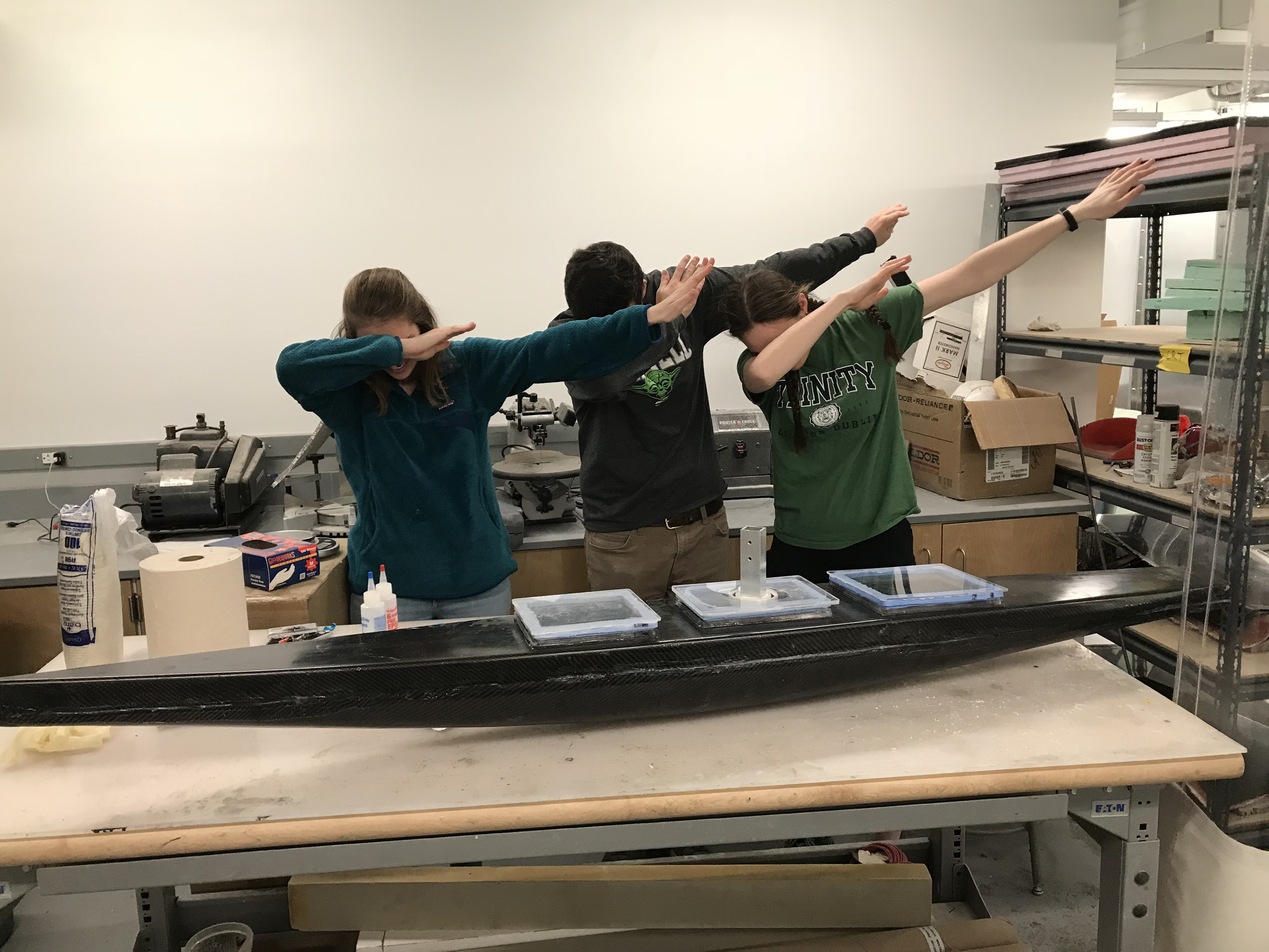
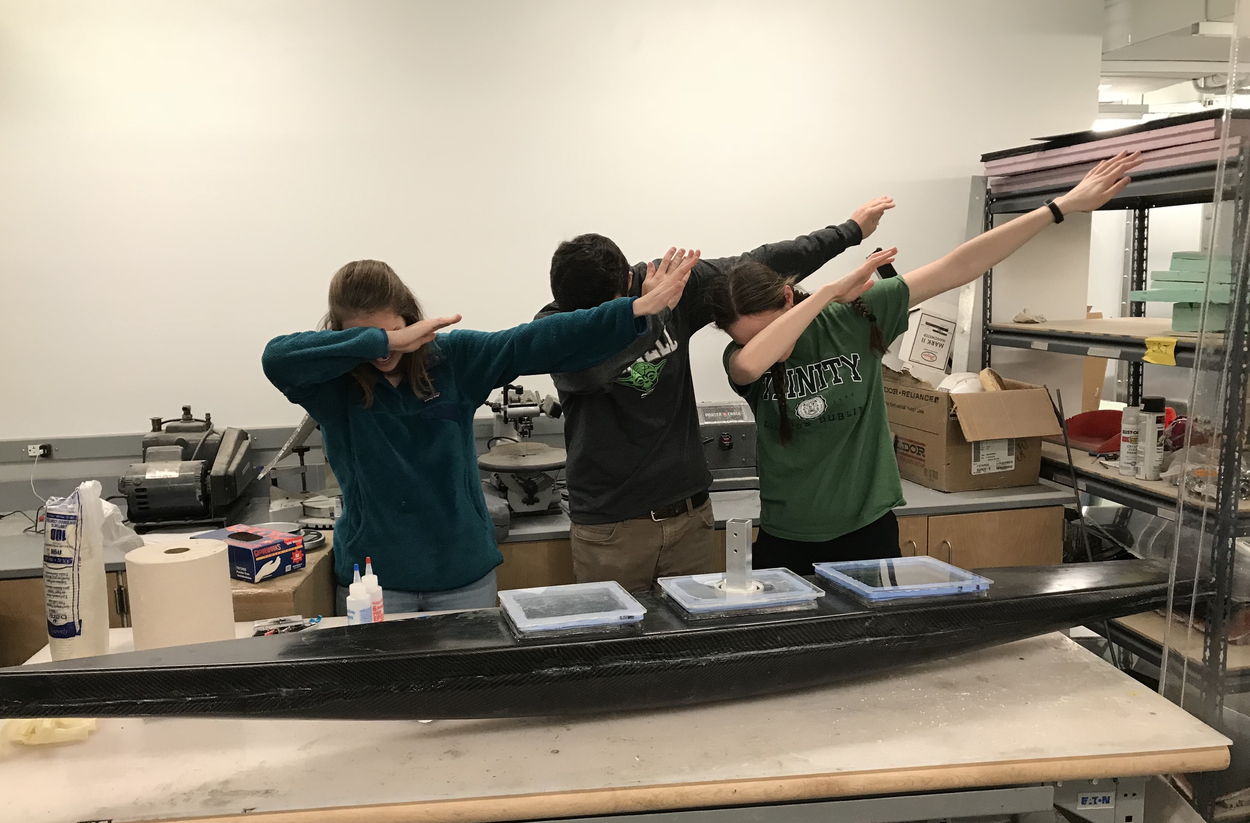
boats pge

diff --git a/New Website/boats.html b/New Website/boats.html
@@ -57,9 +57,9 @@
        <div class="row">
         <article class="col-md-6">
           <figure class="col-lg-12">
-          <img class="img img-responsive article-img" src="dab.JPG">
+          <img class="img img-responsive article-img" src="dab.JPG" width="500">
           <figcaption class="article-caption"><h1 class="article-title">SailVane 4</h1>
-            <h3>2018-2019</h3>
+          <h3>2018-2019</h3>
           </figcaption>
           </figure>
           <div class="article-intro col-lg-12" style="padding-top: 10px;">
@@ -70,9 +70,9 @@
                 
           <article class="col-md-6">
           <figure class="col-lg-12">
-          <img class="img img-responsive article-img" src="fiona1.jpg">
+          <img class="img img-responsive article-img" src="fiona1.jpg" width="500">
           <figcaption class="article-caption"><h1 class="article-title">SailVane 3, "Fiona"</h1>
-            <h3>2017-2018</h3>
+          <h3>2017-2018</h3>
           </figcaption>
           </figure>
 
@@ -88,9 +88,9 @@
           <div class="row">
           <article class="col-md-6">
           <figure class="col-lg-12">
-          <img class="img img-responsive article-img" src="IMG_8067.JPG">
+          <img class="img img-responsive article-img" src="sailvane2.1.JPG" width="300">
           <figcaption class="article-caption"><h1 class="article-title">SailVane 2</h1>
-            <h3>2016-2017</h3>
+          <h3>2016-2017</h3>
           </figcaption>
           </figure>
           <div class="article-intro col-lg-12" style="padding-top: 10px;">
@@ -101,9 +101,9 @@
                 
           <article class="col-md-6">
           <figure class="col-lg-12">
-          <img class="img img-responsive article-img" src="fullteam1516.jpg">
+          <img class="img img-responsive article-img" src="sailvane1.2.jpg" width="275">
           <figcaption class="article-caption"><h1 class="article-title">SailVane 1</h1>
-            <h3>2015-2016</h3>
+          <h3>2015-2016</h3>
           </figcaption>
           </figure>
 
